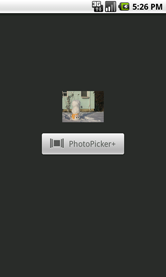
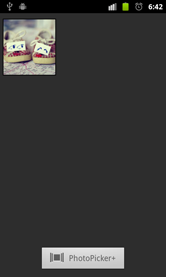
screenshots updated

diff --git a/PhotoPickerPlusTutorial/src/com/chute/photopickerplustutorial/app/PhotoPickerPlusTutorialActivity.java b/PhotoPickerPlusTutorial/src/com/chute/photopickerplustutorial/app/PhotoPickerPlusTutorialActivity.java
@@ -32,7 +32,7 @@ public class PhotoPickerPlusTutorialActivity extends Activity {
 	 * in a grid. If you wish to enable multi-picking functionality, set
 	 * isMultipicker=true, otherwise set isMultiPicker=false.
 	 */
-	private boolean isMultiPicker = false;
+	private boolean isMultiPicker = true;
 
 	@Override
 	public void onCreate(Bundle savedInstanceState) {

diff --git a/ChutePhotoPicker+/README.md b/ChutePhotoPicker+/README.md
@@ -7,7 +7,7 @@ PhotoPicker+ is a component made for developers to easily integrate it inside th
 Screenshots
 ====
 
-![SS_Slidechute2](https://github.com/chute/photo-picker-plus/raw/master/Android/ChutePhotoPicker+/screenshots/SS_Slidechute2.png)![SS_Slidechute3](https://github.com/chute/photo-picker-plus/raw/master/Android/ChutePhotoPicker+/screenshots/SS_Slidechute3.png)![SS_Slidechute4](https://github.com/chute/photo-picker-plus/raw/master/Android/ChutePhotoPicker+/screenshots/SS_Slidechute4.png)
+![SS_Slidechute1](https://github.com/chute/photo-picker-plus/raw/master/Android/ChutePhotoPicker+/screenshots/SS_Slidechute1.png)![SS_Slidechute2](https://github.com/chute/photo-picker-plus/raw/master/Android/ChutePhotoPicker+/screenshots/SS_Slidechute2.png)![SS_Slidechute3](https://github.com/chute/photo-picker-plus/raw/master/Android/ChutePhotoPicker+/screenshots/SS_Slidechut3.png)![SS_Slidechute4](https://github.com/chute/photo-picker-plus/raw/master/Android/ChutePhotoPicker+/screenshots/SS_Slidechut4.png)
 
 Implementation
 ====

diff --git a/PhotoPickerPlusTutorial/README.md b/PhotoPickerPlusTutorial/README.md
@@ -3,7 +3,7 @@ Introduction
 
 PhotoPickerPlusTutorial is a tutorial project that shows how to use the PhotoPicker+ component. It contains Chute SDK library as well as PhotoPicker+ library. This tutorial enables browsing albums and photos on your social services and device gallery, selecting a photo and display of the selected photo and its data.
 
-![image8](https://github.com/chute/photo-picker-plus/raw/master/Android/PhotoPickerPlusTutorial/screenshots/8.png)![image9](https://github.com/chute/photo-picker-plus/raw/master/Android/PhotoPickerPlusTutorial/screenshots/9.png)
+![image8](https://github.com/chute/photo-picker-plus/raw/master/Android/PhotoPickerPlusTutorial/screenshots/8.png)![image9](https://github.com/chute/photo-picker-plus/raw/master/Android/PhotoPickerPlusTutorial/screenshots/9.png)![image10](https://github.com/chute/photo-picker-plus/raw/master/Android/PhotoPickerPlusTutorial/screenshots/10.png)
 
 Setup
 ====
